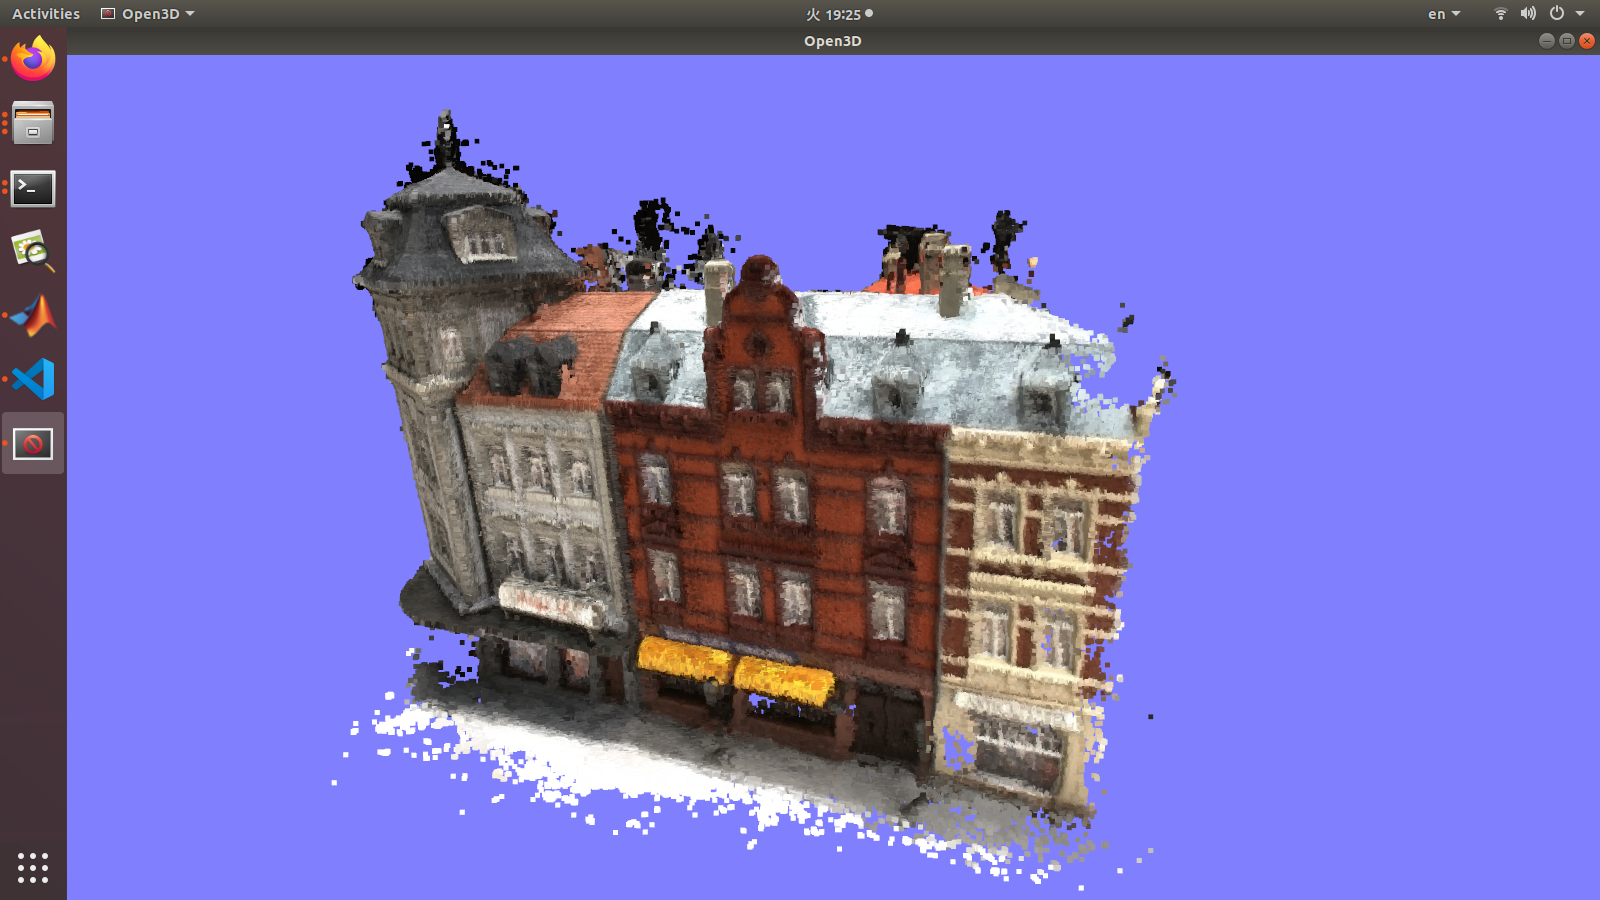
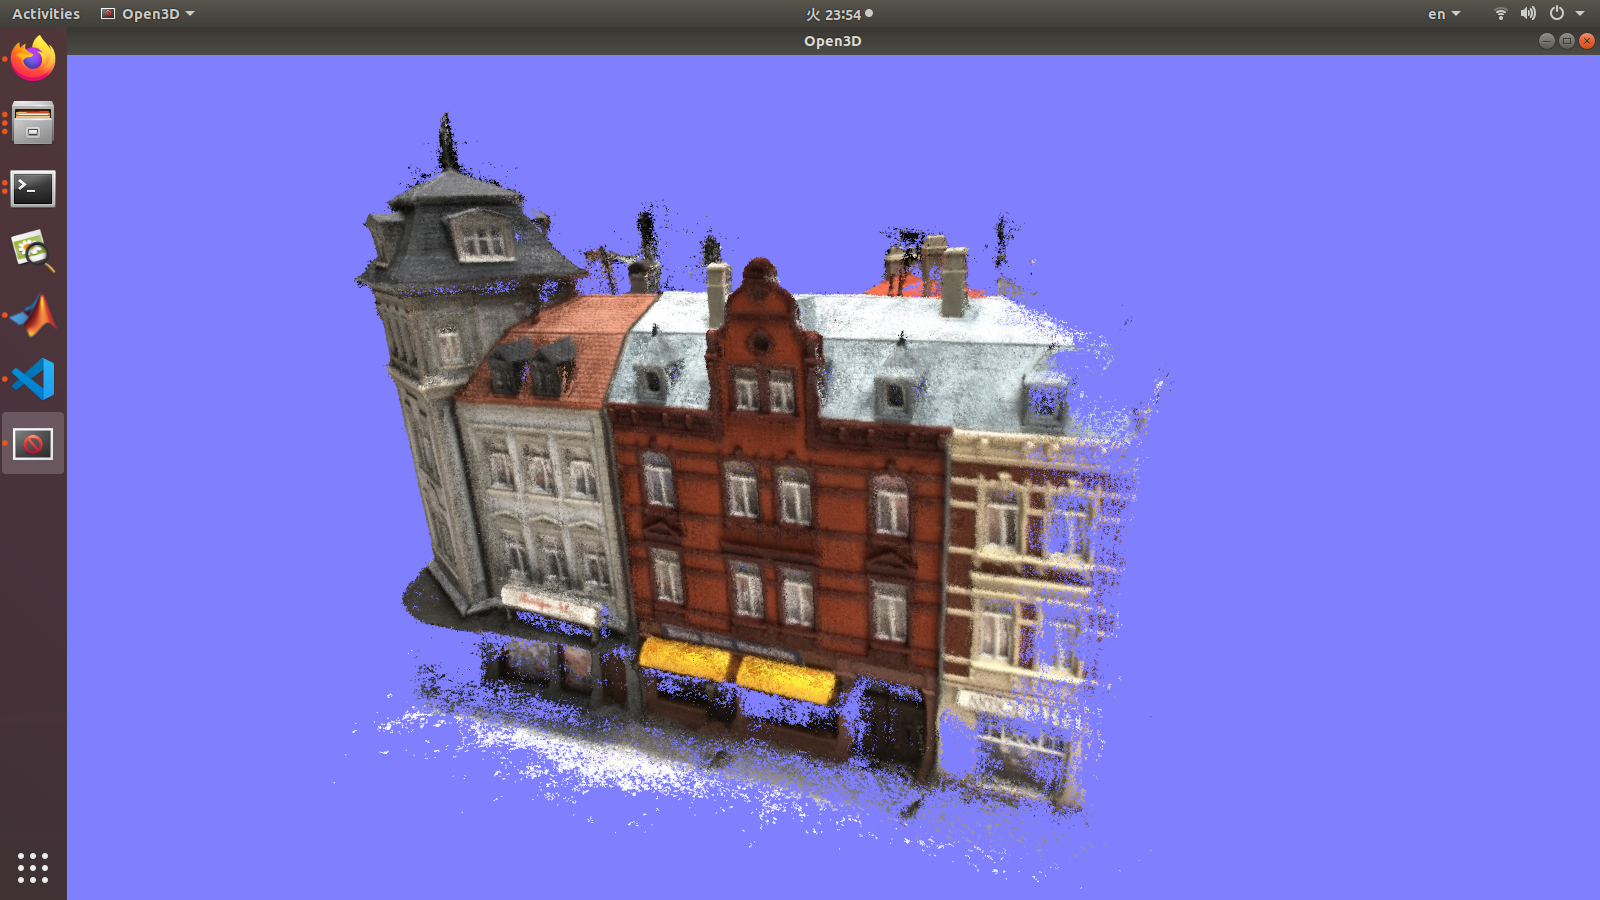
change point cloud visualization to size=1.0

Changed region(s): [[0.2188, 0.1244, 0.75, 0.9956], [0.5, 0.0, 0.5312, 0.0311]]

diff --git a/visualize_ply.py b/visualize_ply.py
@@ -20,7 +20,8 @@ if __name__ == "__main__":
     vis.create_window()
     ctr = vis.get_view_control()
     opt = vis.get_render_option()
-    opt.background_color = np.array([128/255, 128/255, 255/255])
+    opt.point_size = 1.0
+    opt.background_color = np.array([0.5, 0.5, 1.0])
     vis.add_geometry(pcd)
 
     if args.use_viewpoint:
